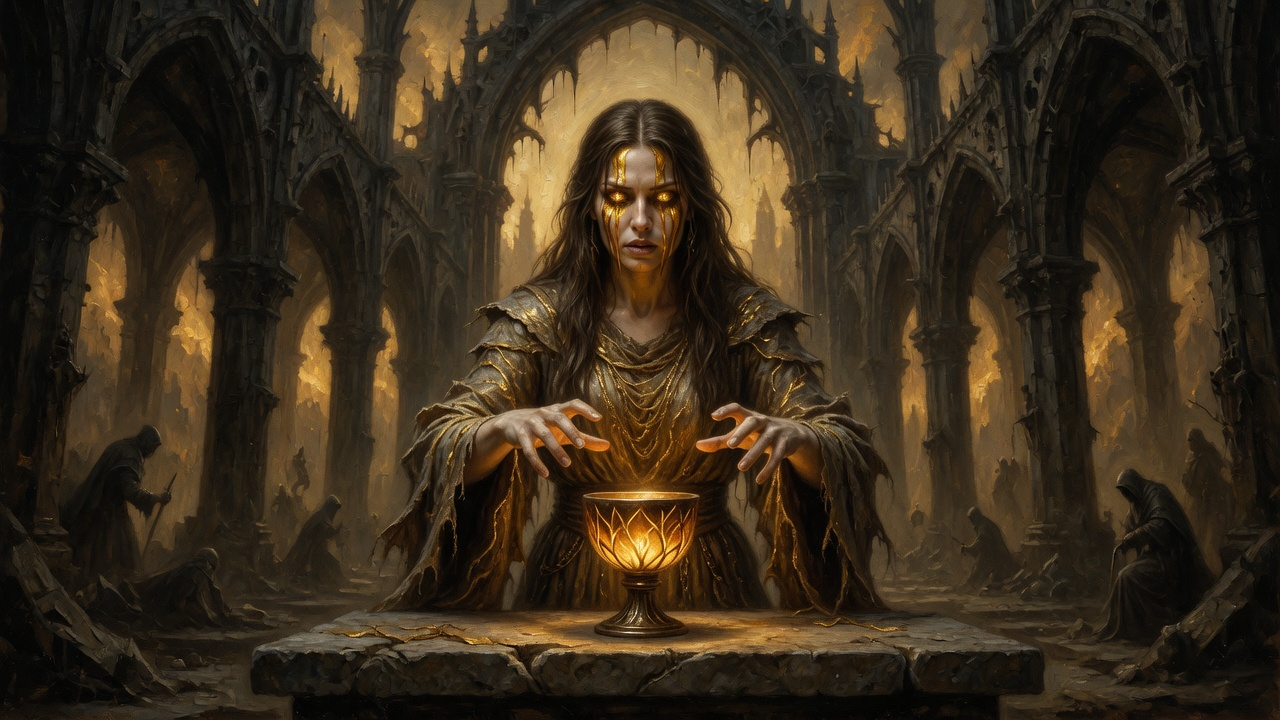
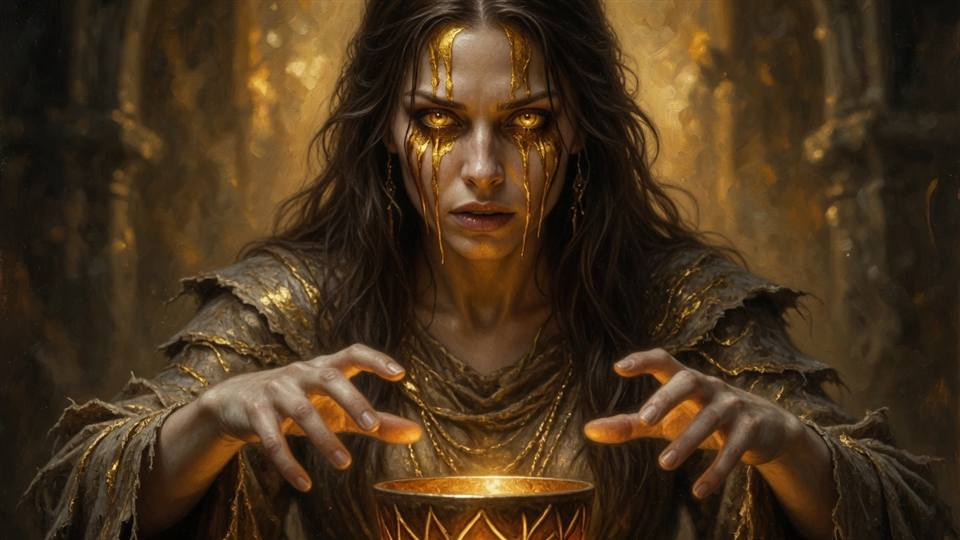
Tight-crop and shrink door covers so the art band is not the title sky.

diff --git a/scripts/smoke.ts b/scripts/smoke.ts
@@ -1480,7 +1480,7 @@ assert(html.includes('apple-touch.png?v=13'), 'apple-touch-icon is cache-busted 
 }
 
 const sw = readFileSync(new URL('../public/sw.js', import.meta.url), 'utf8')
-assert(sw.includes("CACHE = 'amber-shroud-v24'"), 'SW bumped so each door and interrupt has its own cover')
+assert(sw.includes("CACHE = 'amber-shroud-v25'"), 'SW bumped so door covers are tight-cropped and small')
 assert(sw.includes('covers/camp04.jpg') && sw.includes('covers/sybella.jpg'), 'SW precaches door and antagonist covers')
 assert(sw.includes('favicon.png') && !sw.includes('favicon.svg'), 'SW precaches the cover favicon, not the Drop SVG')
 try {
@@ -1494,6 +1494,7 @@ assert(/\.choice \{[\s\S]*?flex:\s*0\s+0\s+auto/.test(css), 'choice rows do not 
 assert(css.includes('.choice.shop-row'), 'shop Buy/Sell rows keep their own height')
 assert(css.includes('max-height: 48%'), 'play thumb docks in the viewport instead of pushing actions below the fold')
 assert(/html,\s*body,\s*#root \{[\s\S]*?overflow:\s*hidden/.test(css), 'page chrome does not scroll under the play dock')
+assert(css.includes('object-position: center 68%'), 'scene art crops onto the landmark, not the shared sky')
 assert(css.includes('place-items: center'), 'game screen is centered on the backdrop')
 assert(/html \{\s*font-size:\s*18px/.test(css), 'root type is 18px so rem UI reads on a filled phone')
 assert(/\.play-screen \.scene-art \{[\s\S]*?flex:\s*1 1 auto/.test(css), 'scene art grows into leftover play space')

diff --git a/src/components/PlayScreen.tsx b/src/components/PlayScreen.tsx
@@ -172,7 +172,7 @@ export function PlayScreen({ state, onChange, onTitle, savedCue, saveToast }: Pr
     onChange(interpret(state, t))
   }
 
-  const artSrc = `${import.meta.env.BASE_URL}covers/${playCoverFile(playCoverKey(state, scene))}`
+  const artSrc = `${import.meta.env.BASE_URL}covers/${playCoverFile(playCoverKey(state, scene))}?v=25`
 
   return (
     <div className={`screen play-screen${split ? ' play-split' : ''}`}>

diff --git a/public/sw.js b/public/sw.js
@@ -1,4 +1,4 @@
-const CACHE = 'amber-shroud-v24'
+const CACHE = 'amber-shroud-v25'
 const SCOPE = self.location.pathname.replace(/sw\.js$/, '')
 
 self.addEventListener('install', (event) => {

diff --git a/src/index.css b/src/index.css
@@ -1246,7 +1246,7 @@ h2 {
   width: 100%;
   height: 100%;
   object-fit: cover;
-  object-position: center 40%;
+  object-position: center 68%;
   display: block;
 }
 
